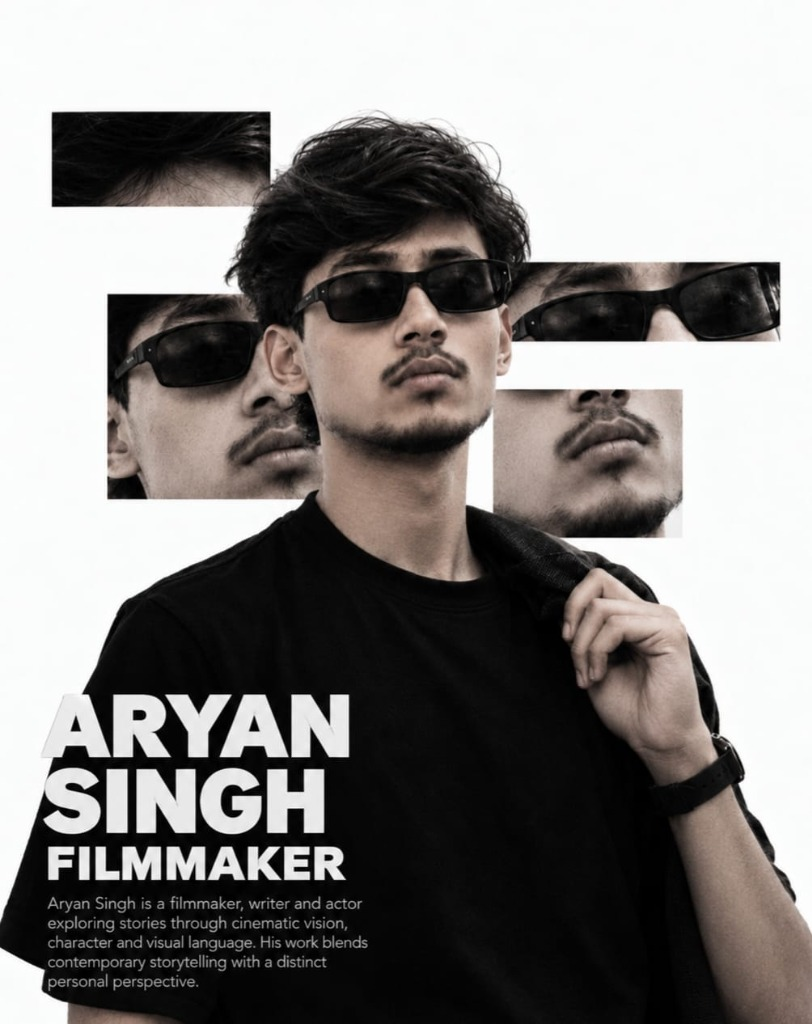
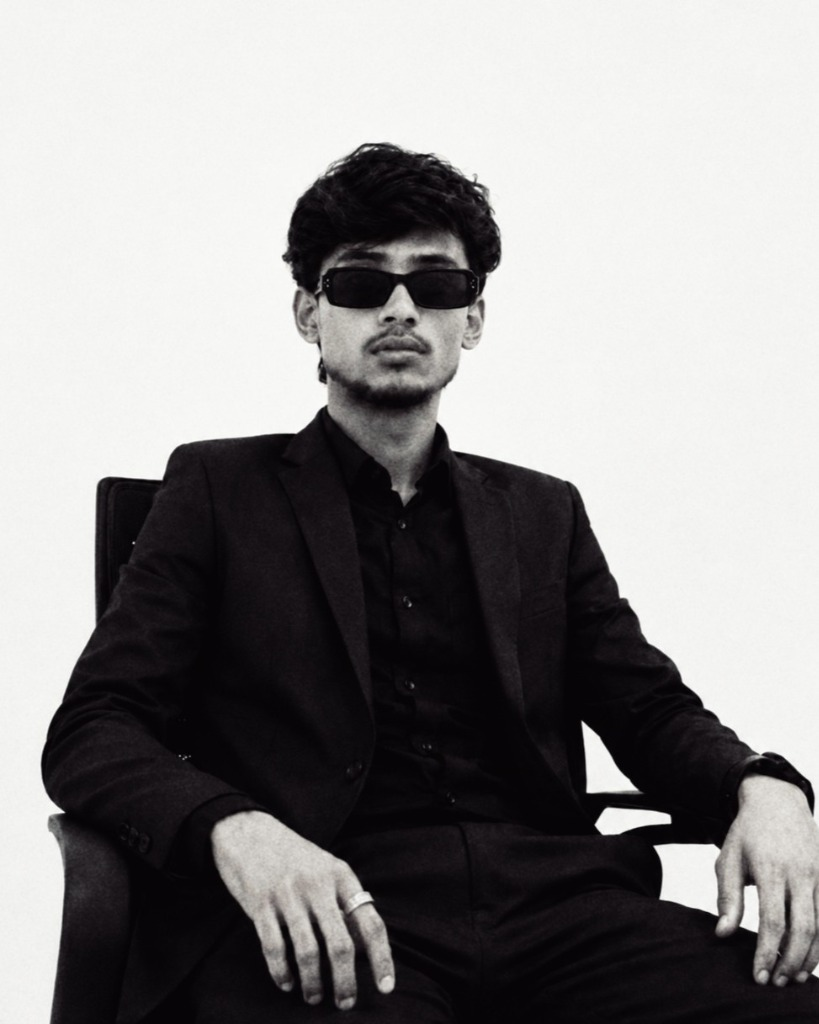
feat: update portrait photography for Unified and Filmmaker personas in About section

diff --git a/src/components/About.tsx b/src/components/About.tsx
@@ -195,7 +195,7 @@ export default function About({ viewMode }: AboutProps) {
                   {activePersona === 'unified' ? (
                     <motion.img 
                       key="unified-img"
-                      src="/images/aryan-unified.jpg" 
+                      src="/images/aryan-unified.png" 
                       alt="Aryan Singh - Dual-Threat Software Engineer & Independent Film Director" 
                       title="Aryan Singh - Unified Vision"
                       loading="eager"
@@ -204,7 +204,7 @@ export default function About({ viewMode }: AboutProps) {
                       animate={{ opacity: 1, scale: 1 }}
                       exit={{ opacity: 0, scale: 0.98 }}
                       transition={{ duration: 0.3 }}
-                      className="w-full h-full object-cover block"
+                      className="w-full h-full object-cover object-top block"
                     />
                   ) : activePersona === 'tech' ? (
                     <motion.img 
@@ -224,8 +224,8 @@ export default function About({ viewMode }: AboutProps) {
                     <motion.img 
                       key="film-img"
                       src="/images/aryan-singh-filmmaker.jpg" 
-                      alt="Aryan Singh - Independent Film Director & Writer" 
-                      title="Aryan Singh Filmmaker"
+                      alt="Aryan Singh - Independent Filmmaker, Writer, Director, Actor & Musician" 
+                      title="Aryan Singh - Filmmaker & Director"
                       loading="eager"
                       fetchPriority="high"
                       initial={{ opacity: 0, scale: 0.98 }}
